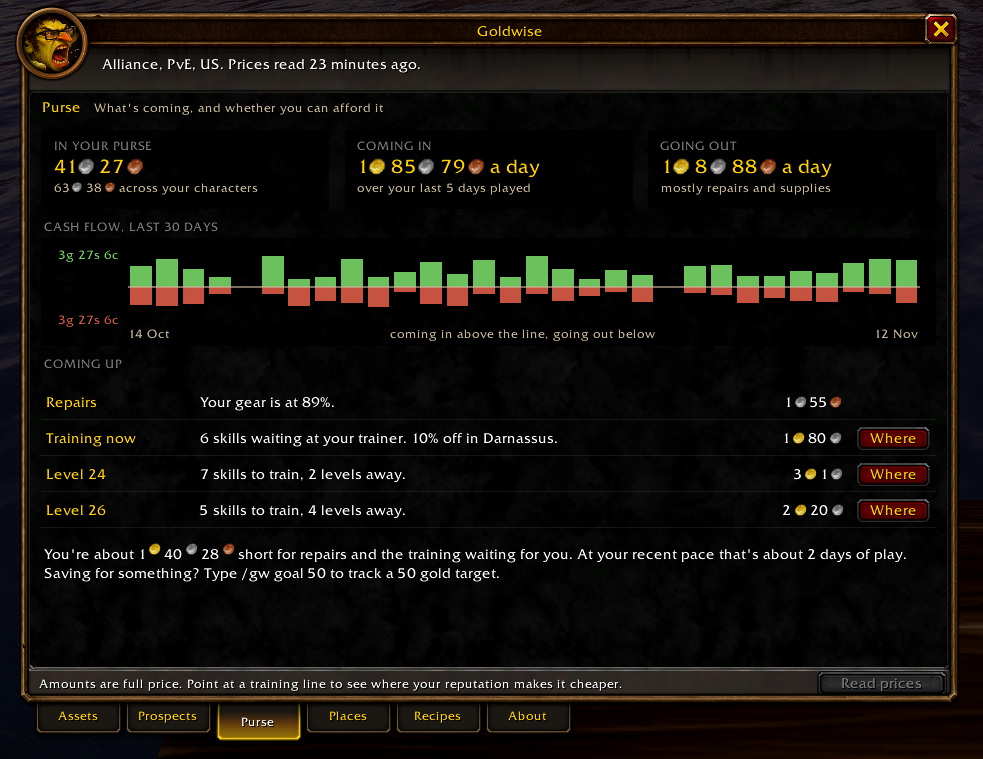
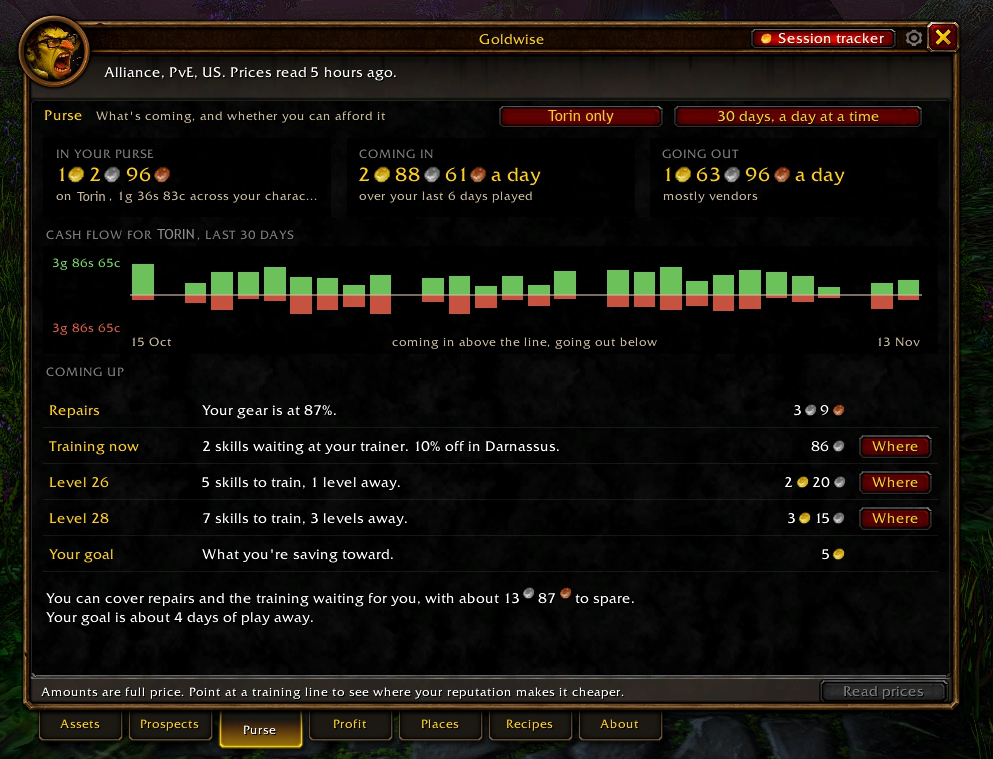
Fresh screenshots for the README, with Profit and the session tracker
Assets, Purse and the recipe card are retaken on the current version, and
Profit and the session tracker get pictures of their own. The figures
come from /gw demo, and the character's name is covered.

diff --git a/README.md b/README.md
@@ -87,7 +87,7 @@ under its tooltip. For something in your bags, the tooltip also carries
 the verdict. Everything Goldwise adds to a tooltip is marked with its
 name, so you can tell its lines from another addon's.
 
-![The Assets tab, with an item's tooltip and price chart beside it](docs/images/assets.png)
+![The Assets tab: a verdict on everything you hold, and where its price has been heading](docs/images/assets.png)
 
 ### Price history for anything
 
@@ -172,6 +172,8 @@ beside each tab's menu switches both to any of your other characters,
 or to the whole account, where the sales list says which character made
 each sale.
 
+![The Profit tab: a running total across the account, and the latest sales](docs/images/profit.png)
+
 ### Places: the nearest of everything
 
 The nearest trainer for your class and each profession, and the nearest
@@ -205,6 +207,8 @@ The cog switches sections on and off, the arrow starts afresh before a
 run, and another button folds it to a single line. Drag it anywhere, and
 click the pin in its corner for Places.
 
+![The session tracker, with what came in and went out, and what your bags would fetch](docs/images/session.png)
+
 ### It speaks up when it matters
 
 A few quiet cards, each once per visit and each with a switch in the
@@ -216,7 +220,7 @@ wherever you'd like them to appear.
 Or turn on **Auditor mode**, and the goblin delivers the same advice at
 full volume.
 
-![A card listing recipes for sale nearby, in Auditor mode](docs/images/card.png)
+![A card saying a vendor nearby sells a recipe you haven't learned, in Auditor mode](docs/images/card.png)
 
 Screenshots with long price histories use sample data. Yours
 fill in as you play.
